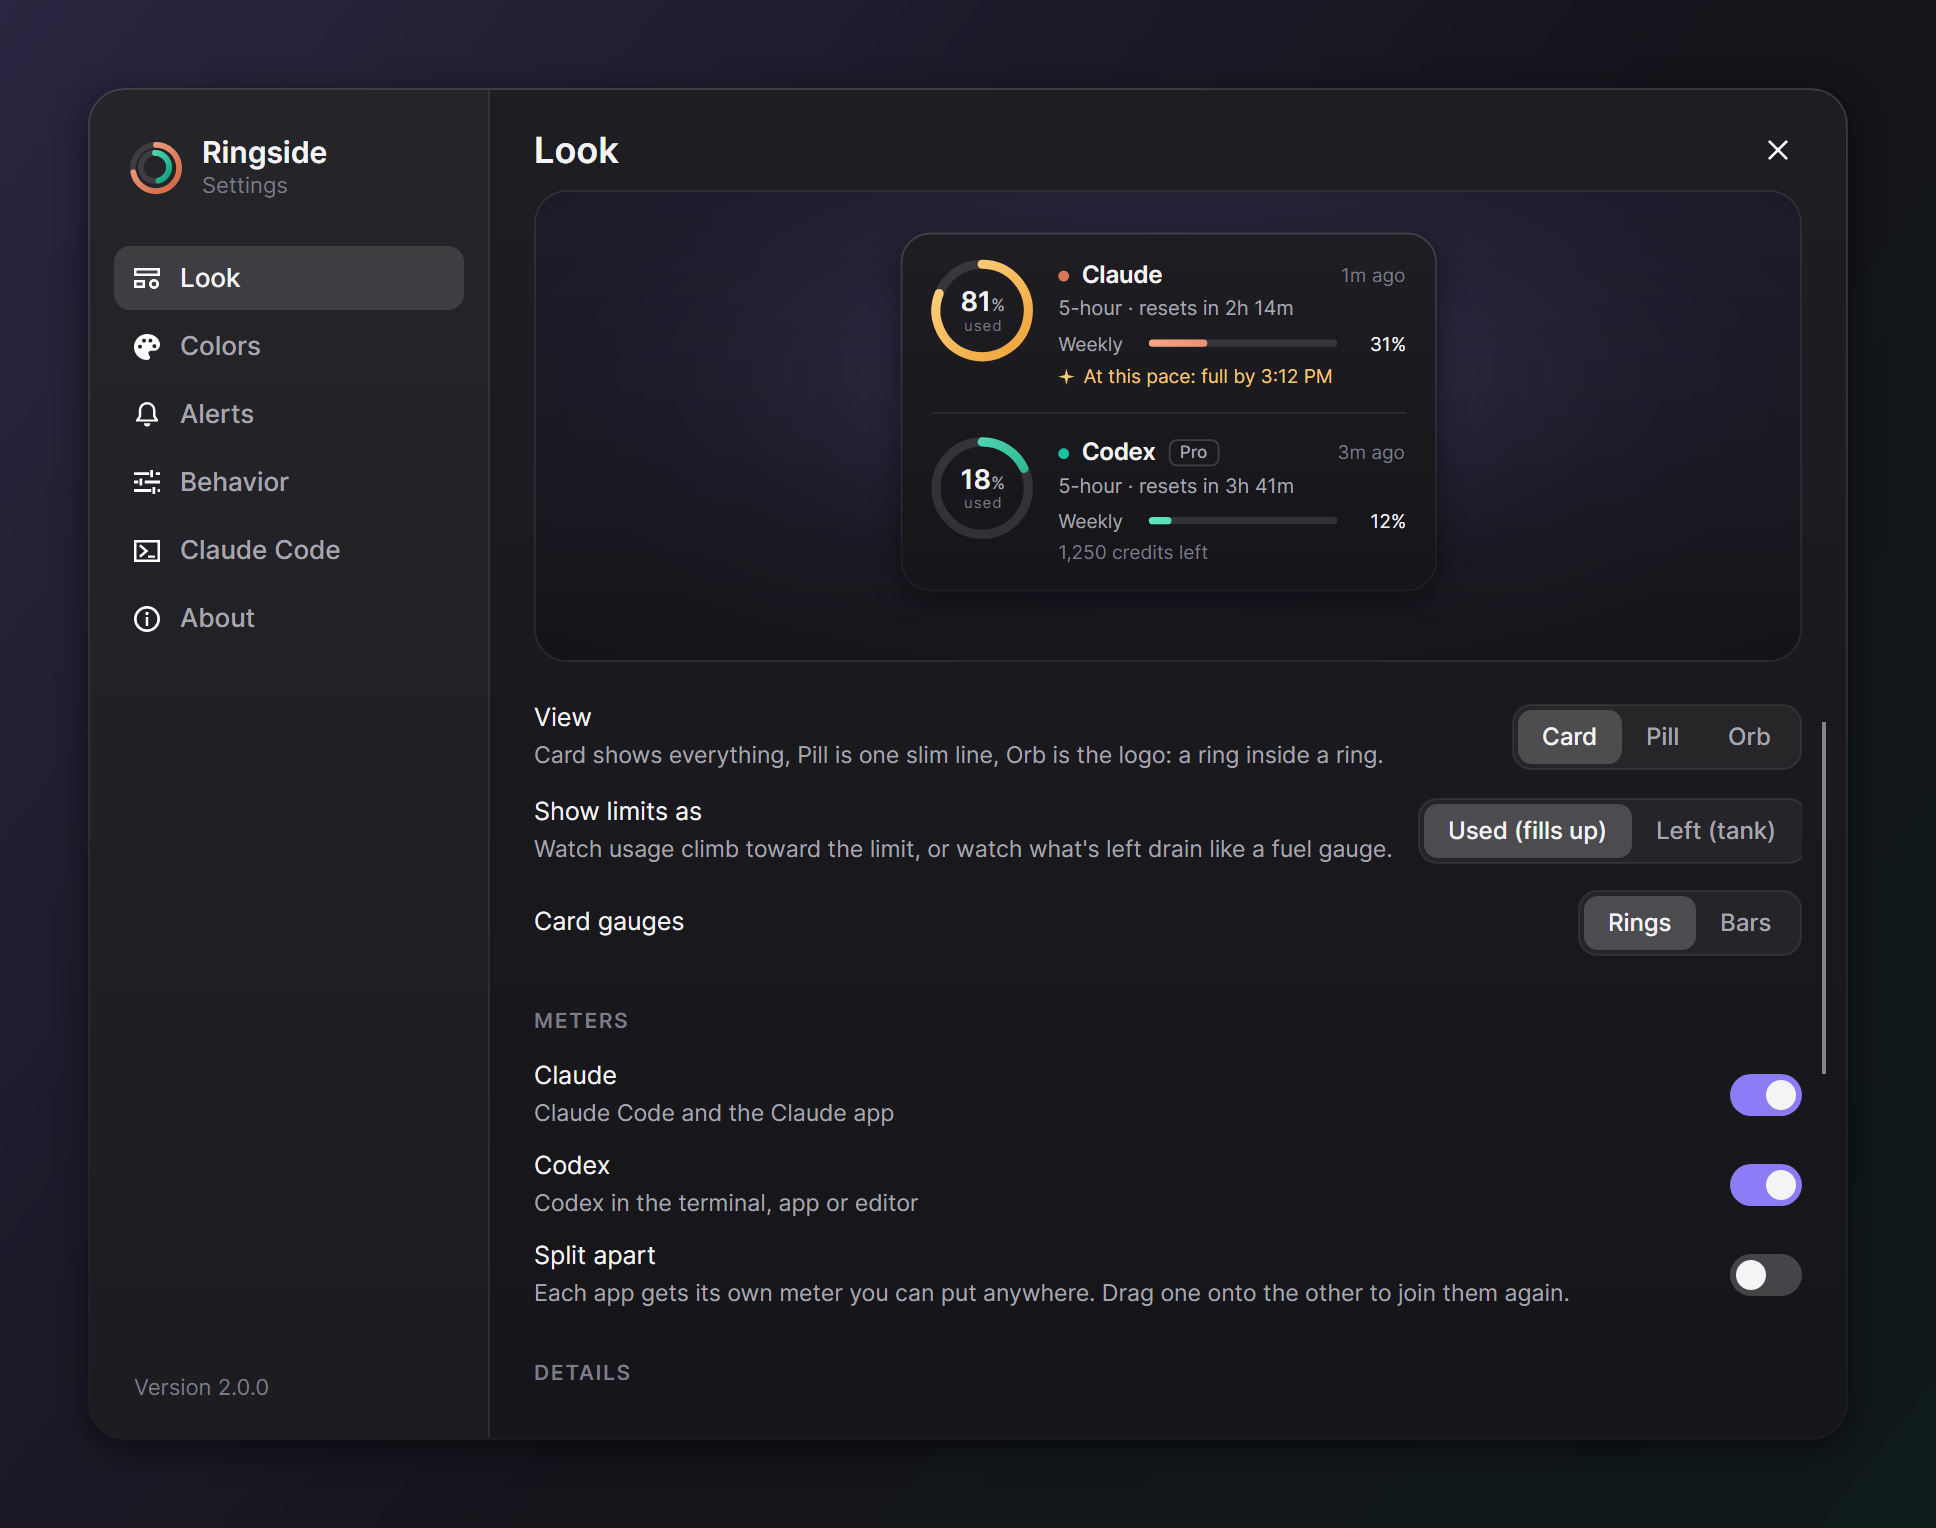
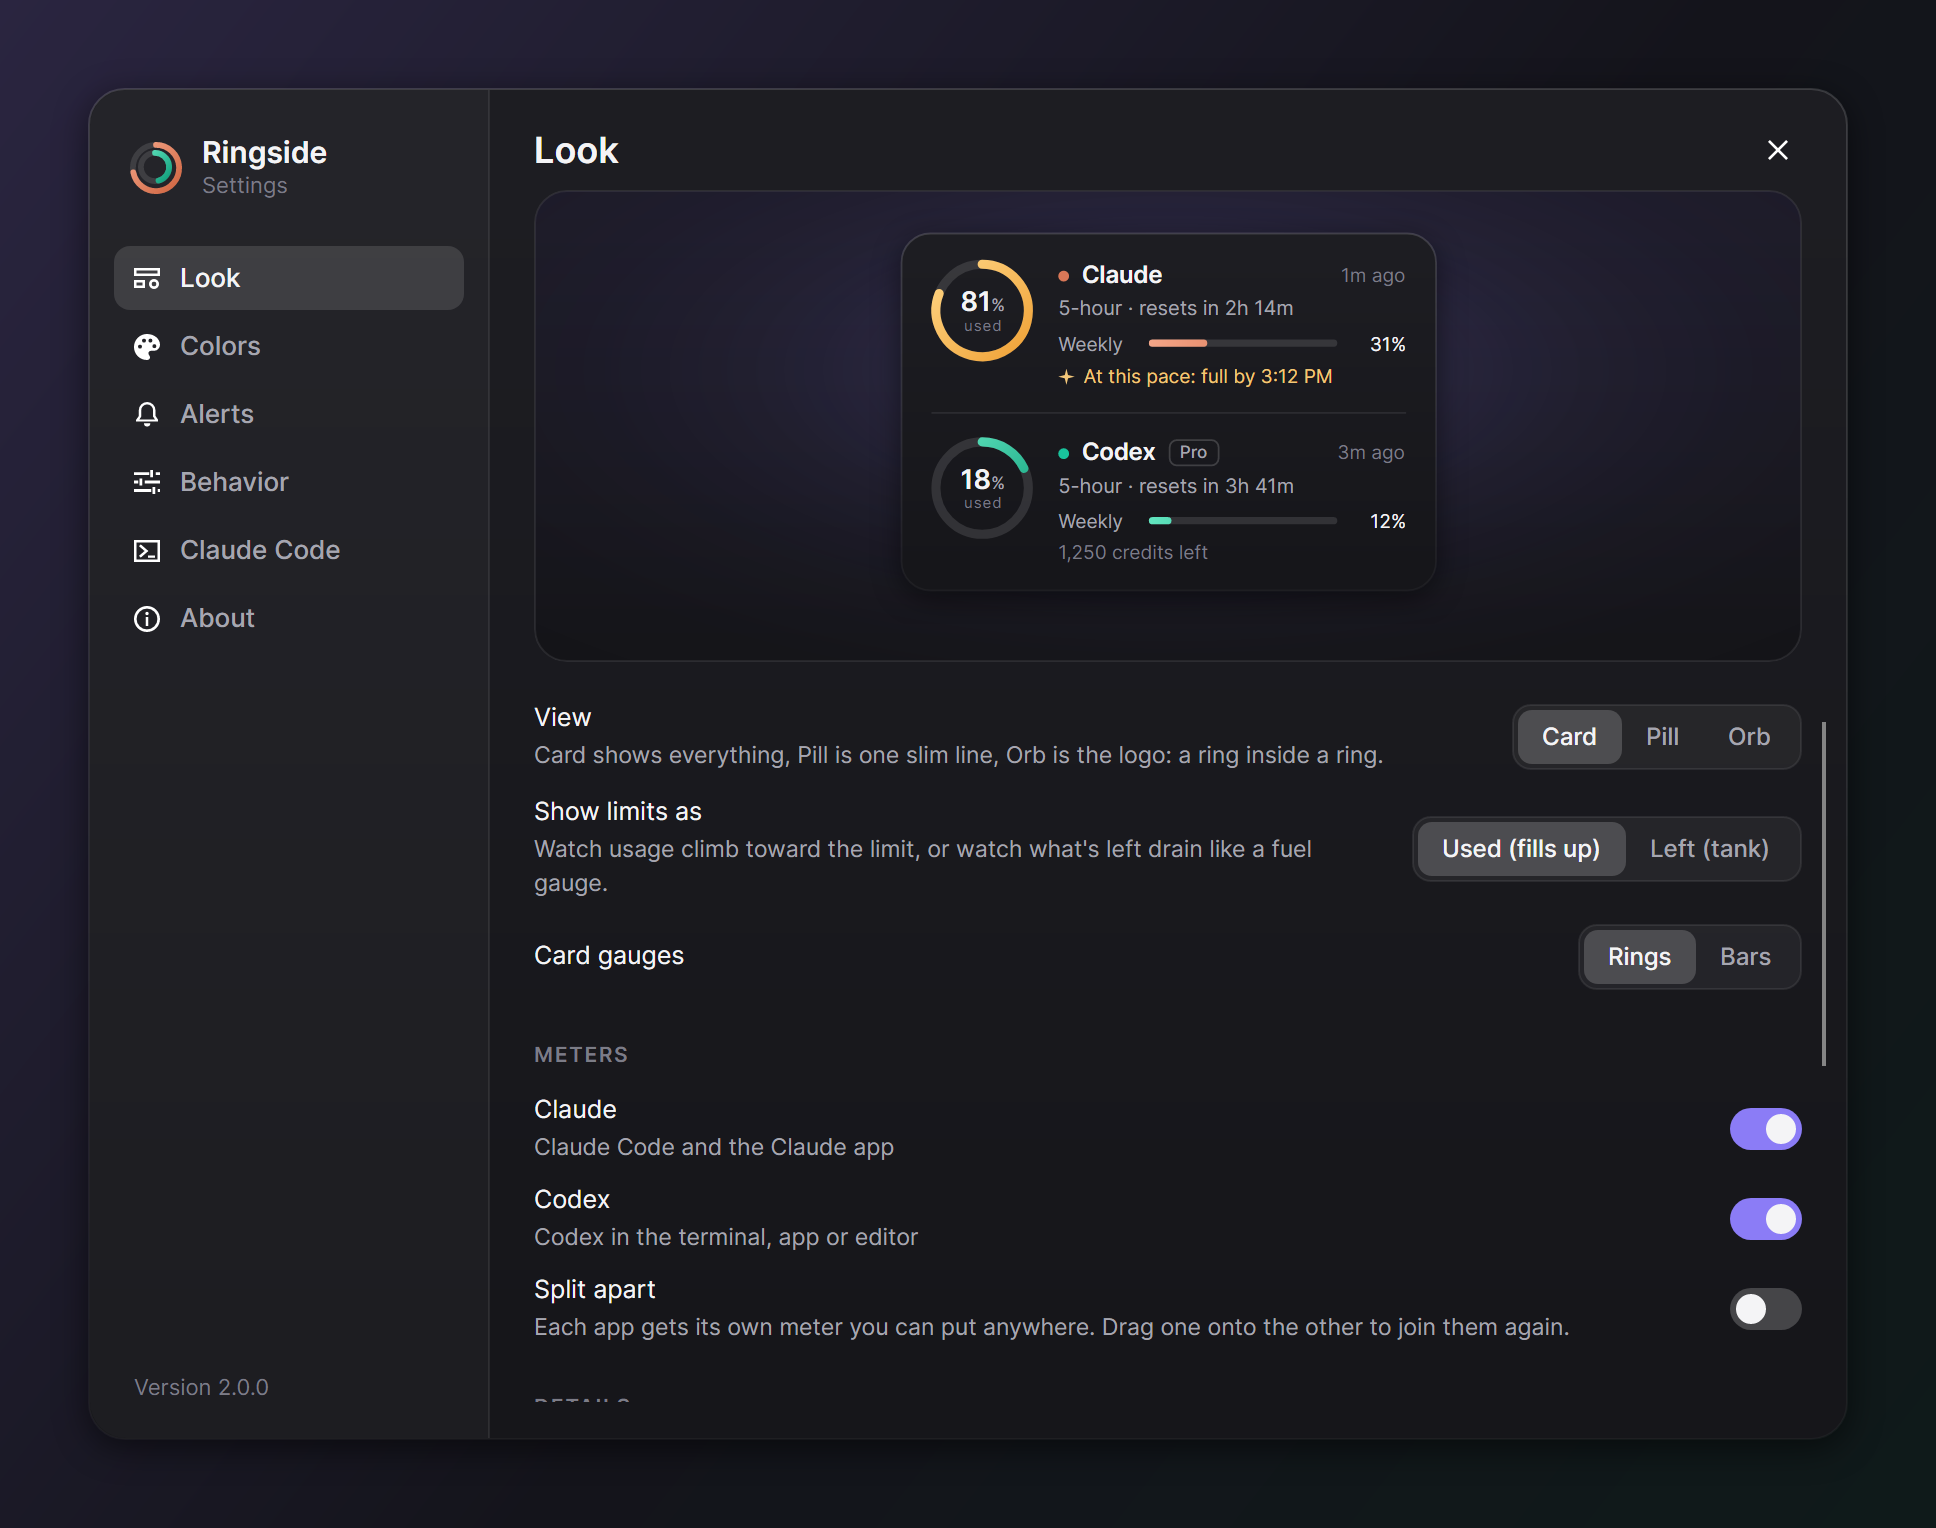
Ringside 2.0.1: render fixes and new media
- Settings: the page gutter is padding on the content, so body text no
  longer runs under the window's right edge.
- Live-limits picture: narrow windows show the 5-hour reading alone.
- docs/images: live-limits, onboarding-2/8, settings-claudecode, refreshed
  settings-look, and a demo GIF that ends with live Claude limits.

Changed region(s): [[0.2789, 0.5537, 0.8058, 0.9228], [0.6818, 0.5229, 0.9298, 0.6459], [0.8678, 0.6767, 0.9298, 0.892]]

diff --git a/src/Ringside/SettingsWindow.cs b/src/Ringside/SettingsWindow.cs
@@ -97,7 +97,10 @@ public sealed class SettingsWindow : CardWindow
         // The preview shrinks to fit when a view is taller than the stage.
         var fit = new Viewbox { Stretch = Stretch.Uniform, StretchDirection = StretchDirection.DownOnly, Child = _previewRow, Margin = new Thickness(6, 4, 6, 18) };
         var stage = Kit.Stage(new Grid { Children = { fit, _sampleNote } }, 236);
-        var scroll = new ScrollViewer { Content = _page, Height = 356, Margin = new Thickness(0, 14, -14, 0), Padding = new Thickness(0, 0, 14, 0) };
+        // The scroll bar sits in the 14 px gutter right of the page. The gutter is padding on the
+        // content itself: the viewer's own Padding does not narrow its content, which let the
+        // text run under the window's edge.
+        var scroll = new ScrollViewer { Content = new Border { Padding = new Thickness(0, 0, 14, 0), Child = _page }, Height = 356, Margin = new Thickness(0, 14, -14, 0) };
 
         var right = new StackPanel { Margin = new Thickness(22, 10, 22, 18), Children = { titleBar, stage, scroll } };
         var grid = new Grid { ColumnDefinitions = new ColumnDefinitions("200,*"), Children = { sideBorder, right } };

diff --git a/src/Ringside/Ui/Art.cs b/src/Ringside/Ui/Art.cs
@@ -18,7 +18,9 @@ public static class Art
     /// </summary>
     public static Control LiveSurfaces(FillMode fill, Control? meter = null, double surfaceWidth = 132)
     {
-        string reading = fill == FillMode.Used ? "5h 42% · 7d 31%" : "5h 58% left";
+        // Narrow windows show the 5-hour reading alone, so the chip never runs past the edge.
+        bool roomy = surfaceWidth >= 140;
+        string reading = fill == FillMode.Used ? (roomy ? "5h 42% · 7d 31%" : "5h 42%") : "5h 58% left";
         var row = new StackPanel { Orientation = Orientation.Horizontal, Spacing = 10, HorizontalAlignment = HorizontalAlignment.Center, VerticalAlignment = VerticalAlignment.Center };
         row.Children.Add(Surface("Terminal", TerminalHead(), TerminalBody(), "#0E0E12", reading, surfaceWidth));
         row.Children.Add(Surface("Claude app", ClaudeHead(), ClaudeBody(), "#1B1917", reading, surfaceWidth));
